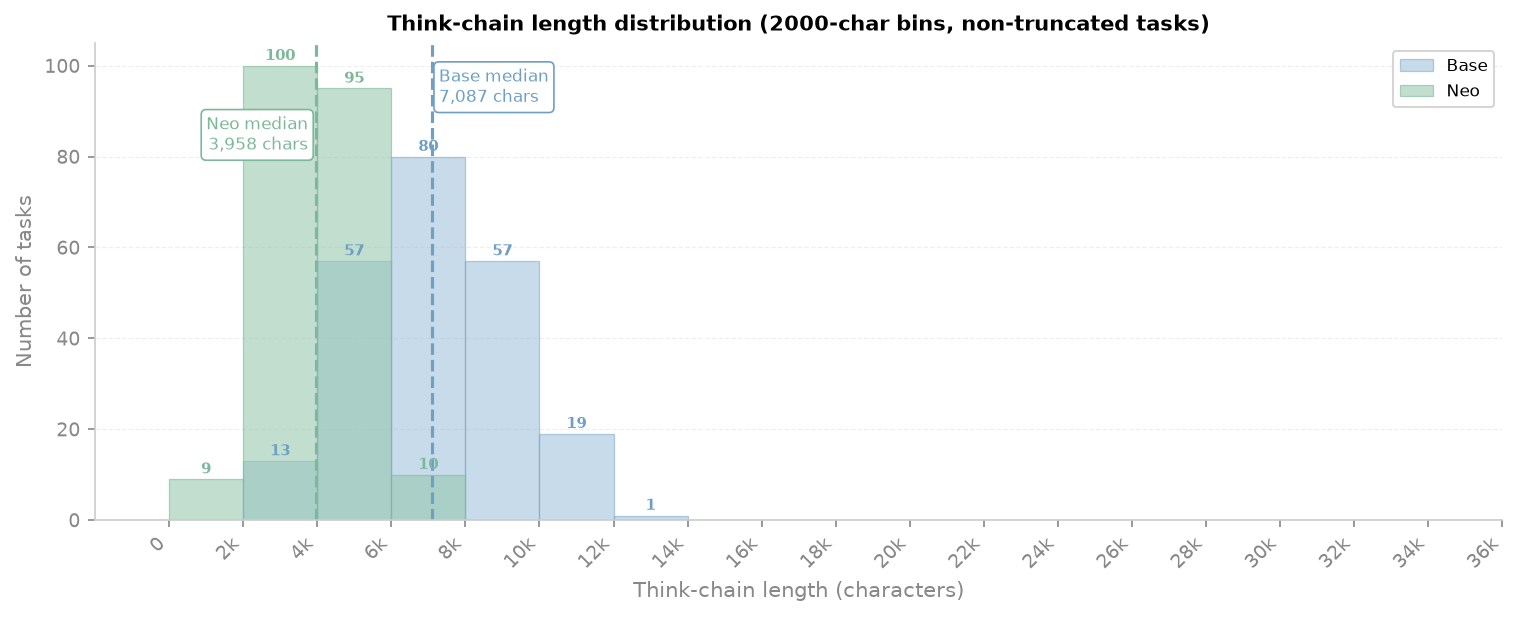
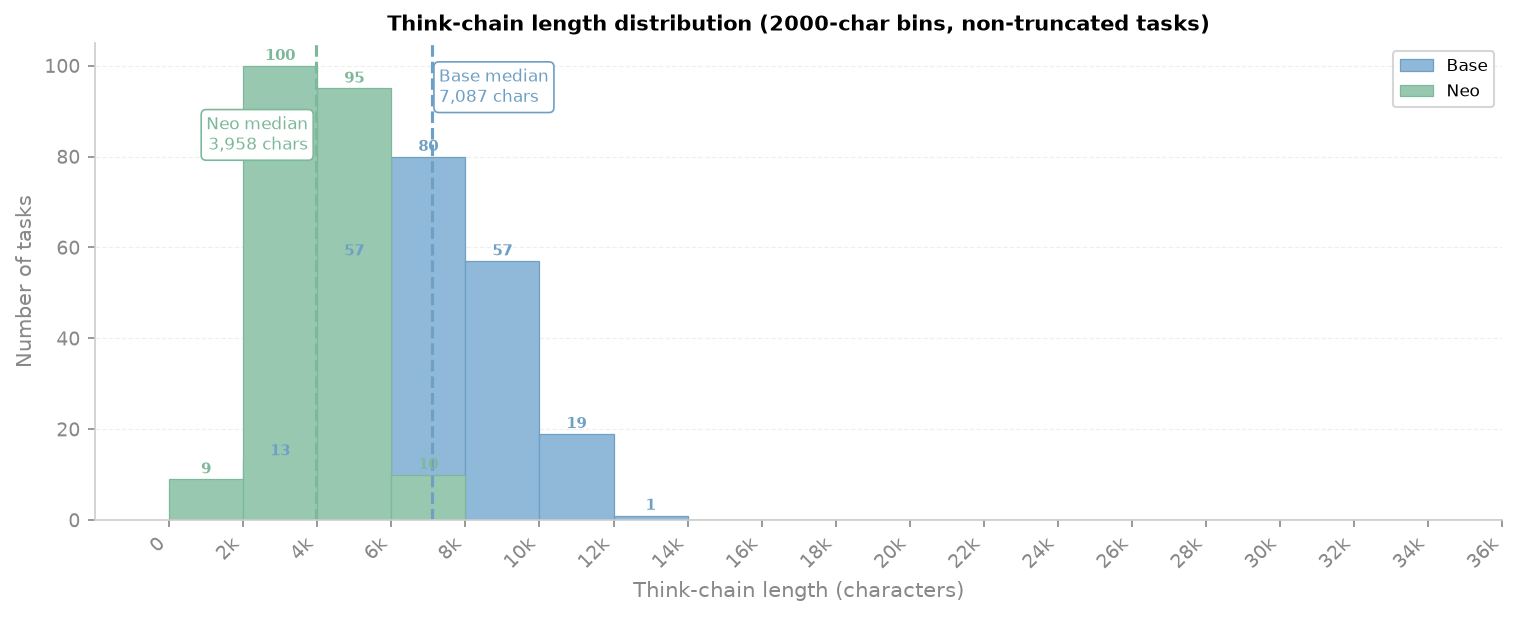
fix: make Figure 4 histogram bars opaque so colors match reference
The histogram used alpha=0.5/0.6 which washed the fill colors out to
#C4D8E8 over white. Set alpha=1.0 so the bars render as exactly
#90B8D8 (Base) and #98C8B0 (Neo), matching the reference image.

Changed region(s): [[0.0929, 0.0924, 0.4647, 0.8622], [0.8985, 0.0924, 0.9604, 0.154]]

diff --git a/src/thinker/eval/plotter.py b/src/thinker/eval/plotter.py
@@ -301,14 +301,14 @@ class ComprehensiveAcademicPlotter:
         fig, ax = plt.subplots(figsize=(10, 4), constrained_layout=True)
         bins = np.arange(0, 40000, 2000)
 
-        # 直方图：半透明 + 边框
+        # 直方图：不透明填充，保证颜色就是 #90B8D8 / #98C8B0 本身
         n_base, bins_base, patches_base = ax.hist(
-            base_lengths, bins=bins, alpha=0.5,
+            base_lengths, bins=bins, alpha=1.0,
             label="Base", color=self.c_base,
             edgecolor=self.c_base_edge, linewidth=0.6,
         )
         n_neo, bins_neo, patches_neo = ax.hist(
-            neo_lengths, bins=bins, alpha=0.6,
+            neo_lengths, bins=bins, alpha=1.0,
             label="Neo", color=self.c_neo,
             edgecolor=self.c_neo_edge, linewidth=0.6,
         )
